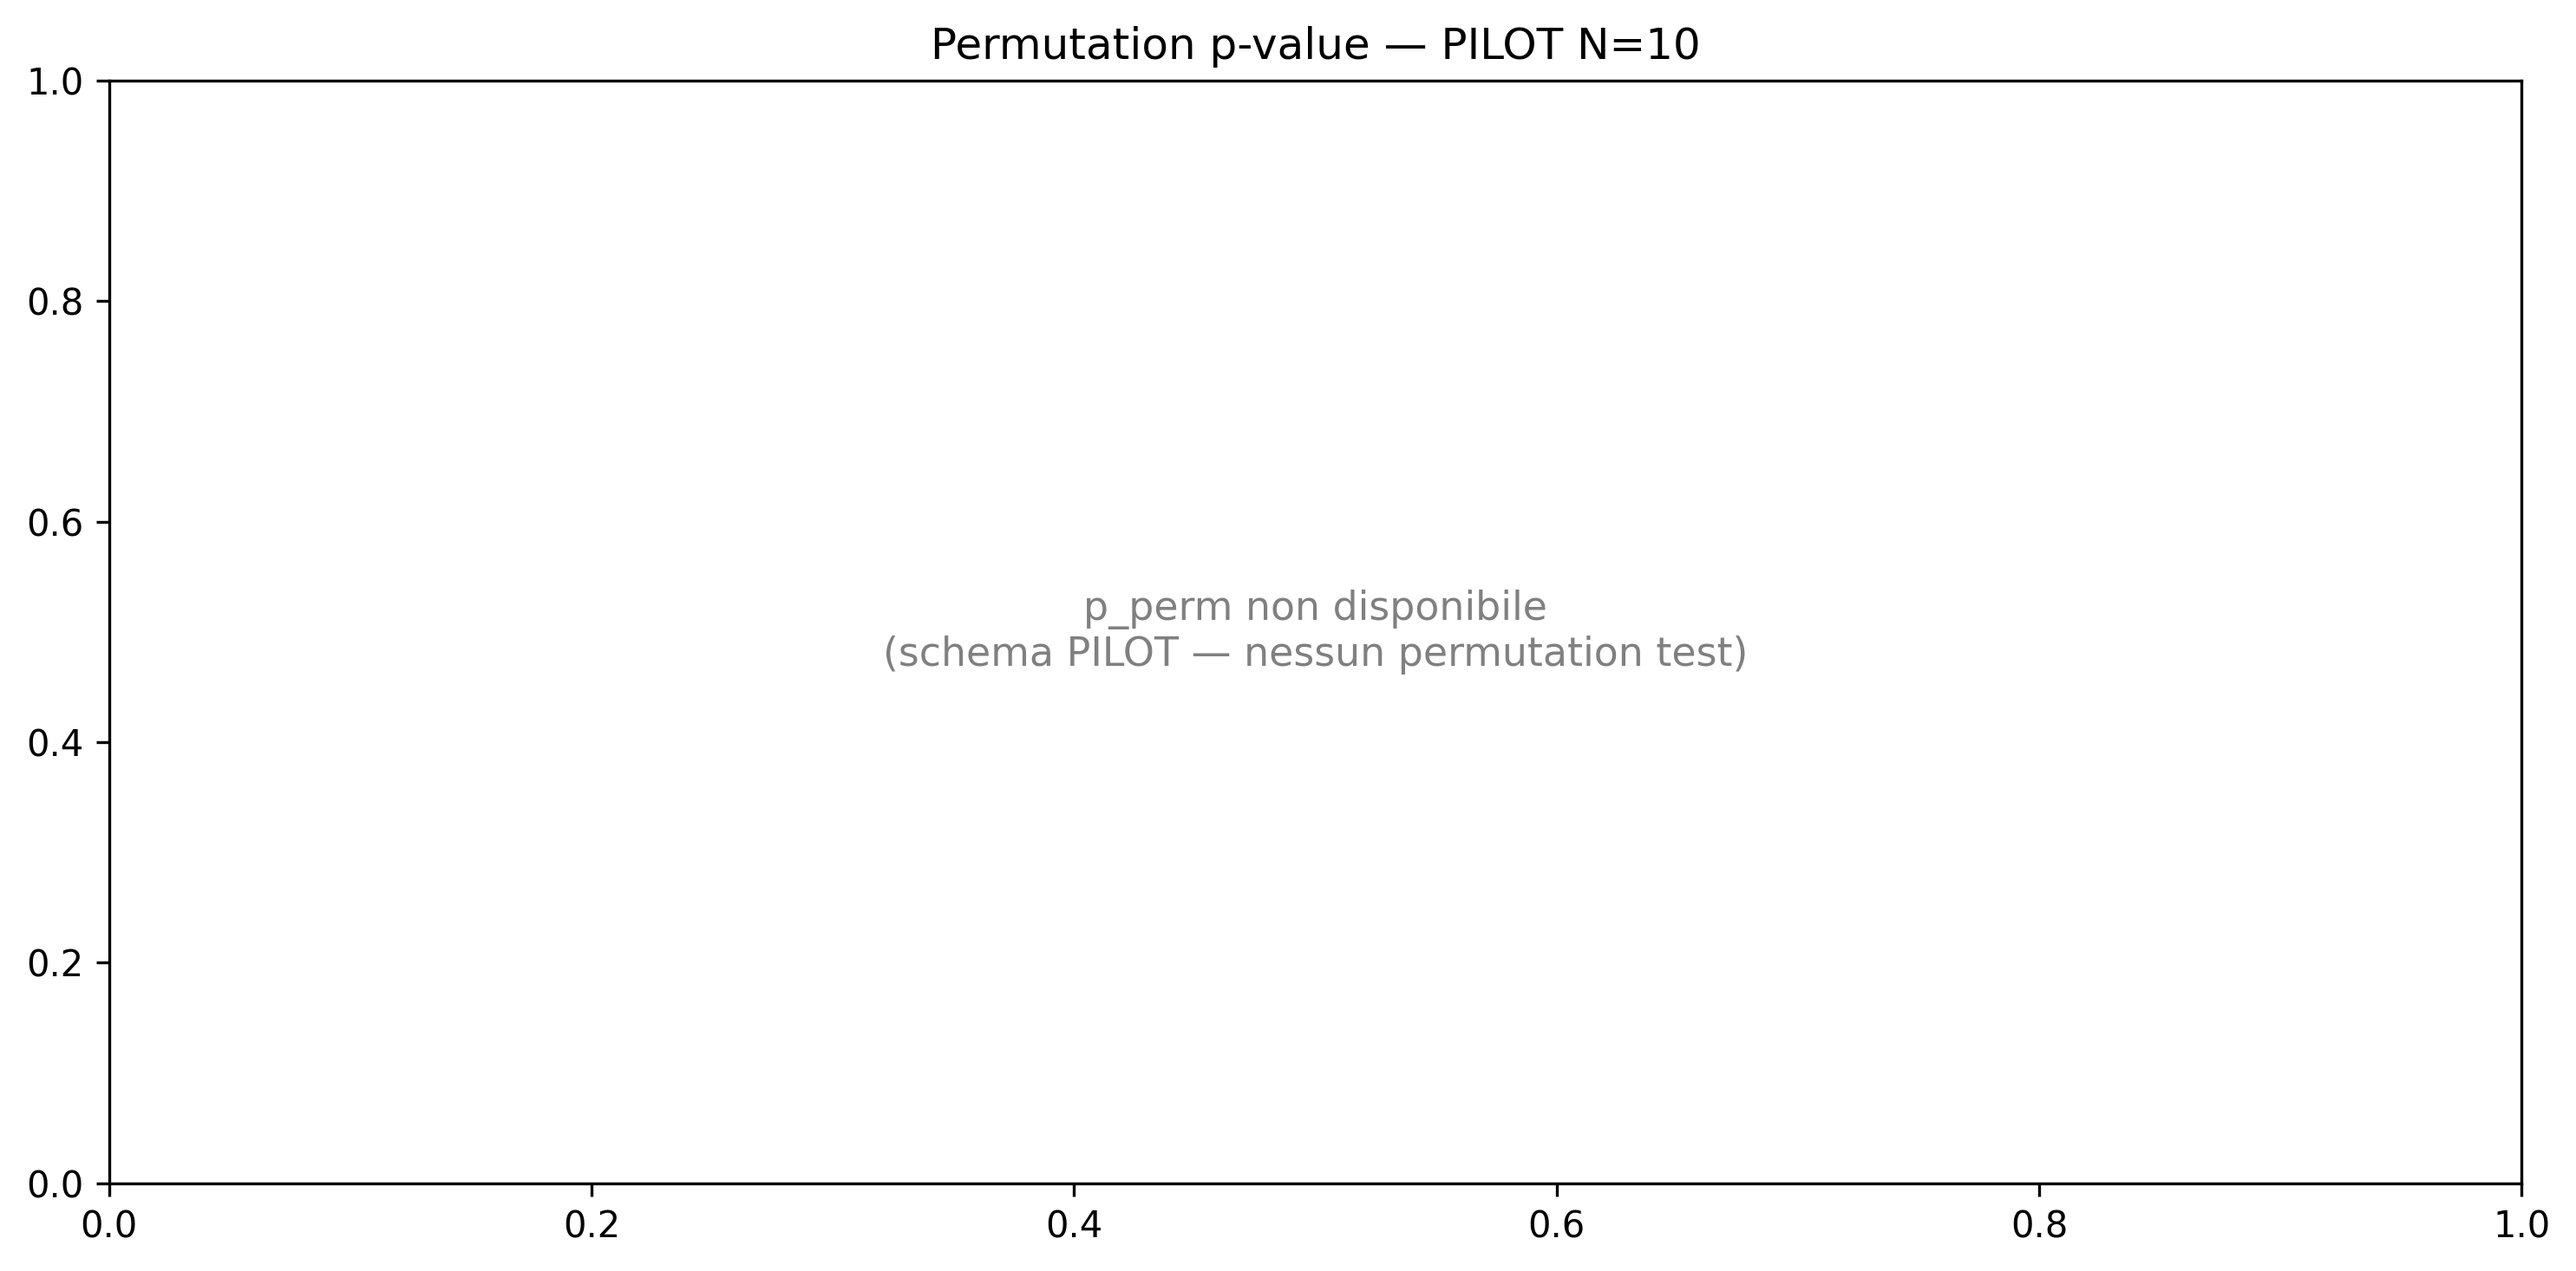
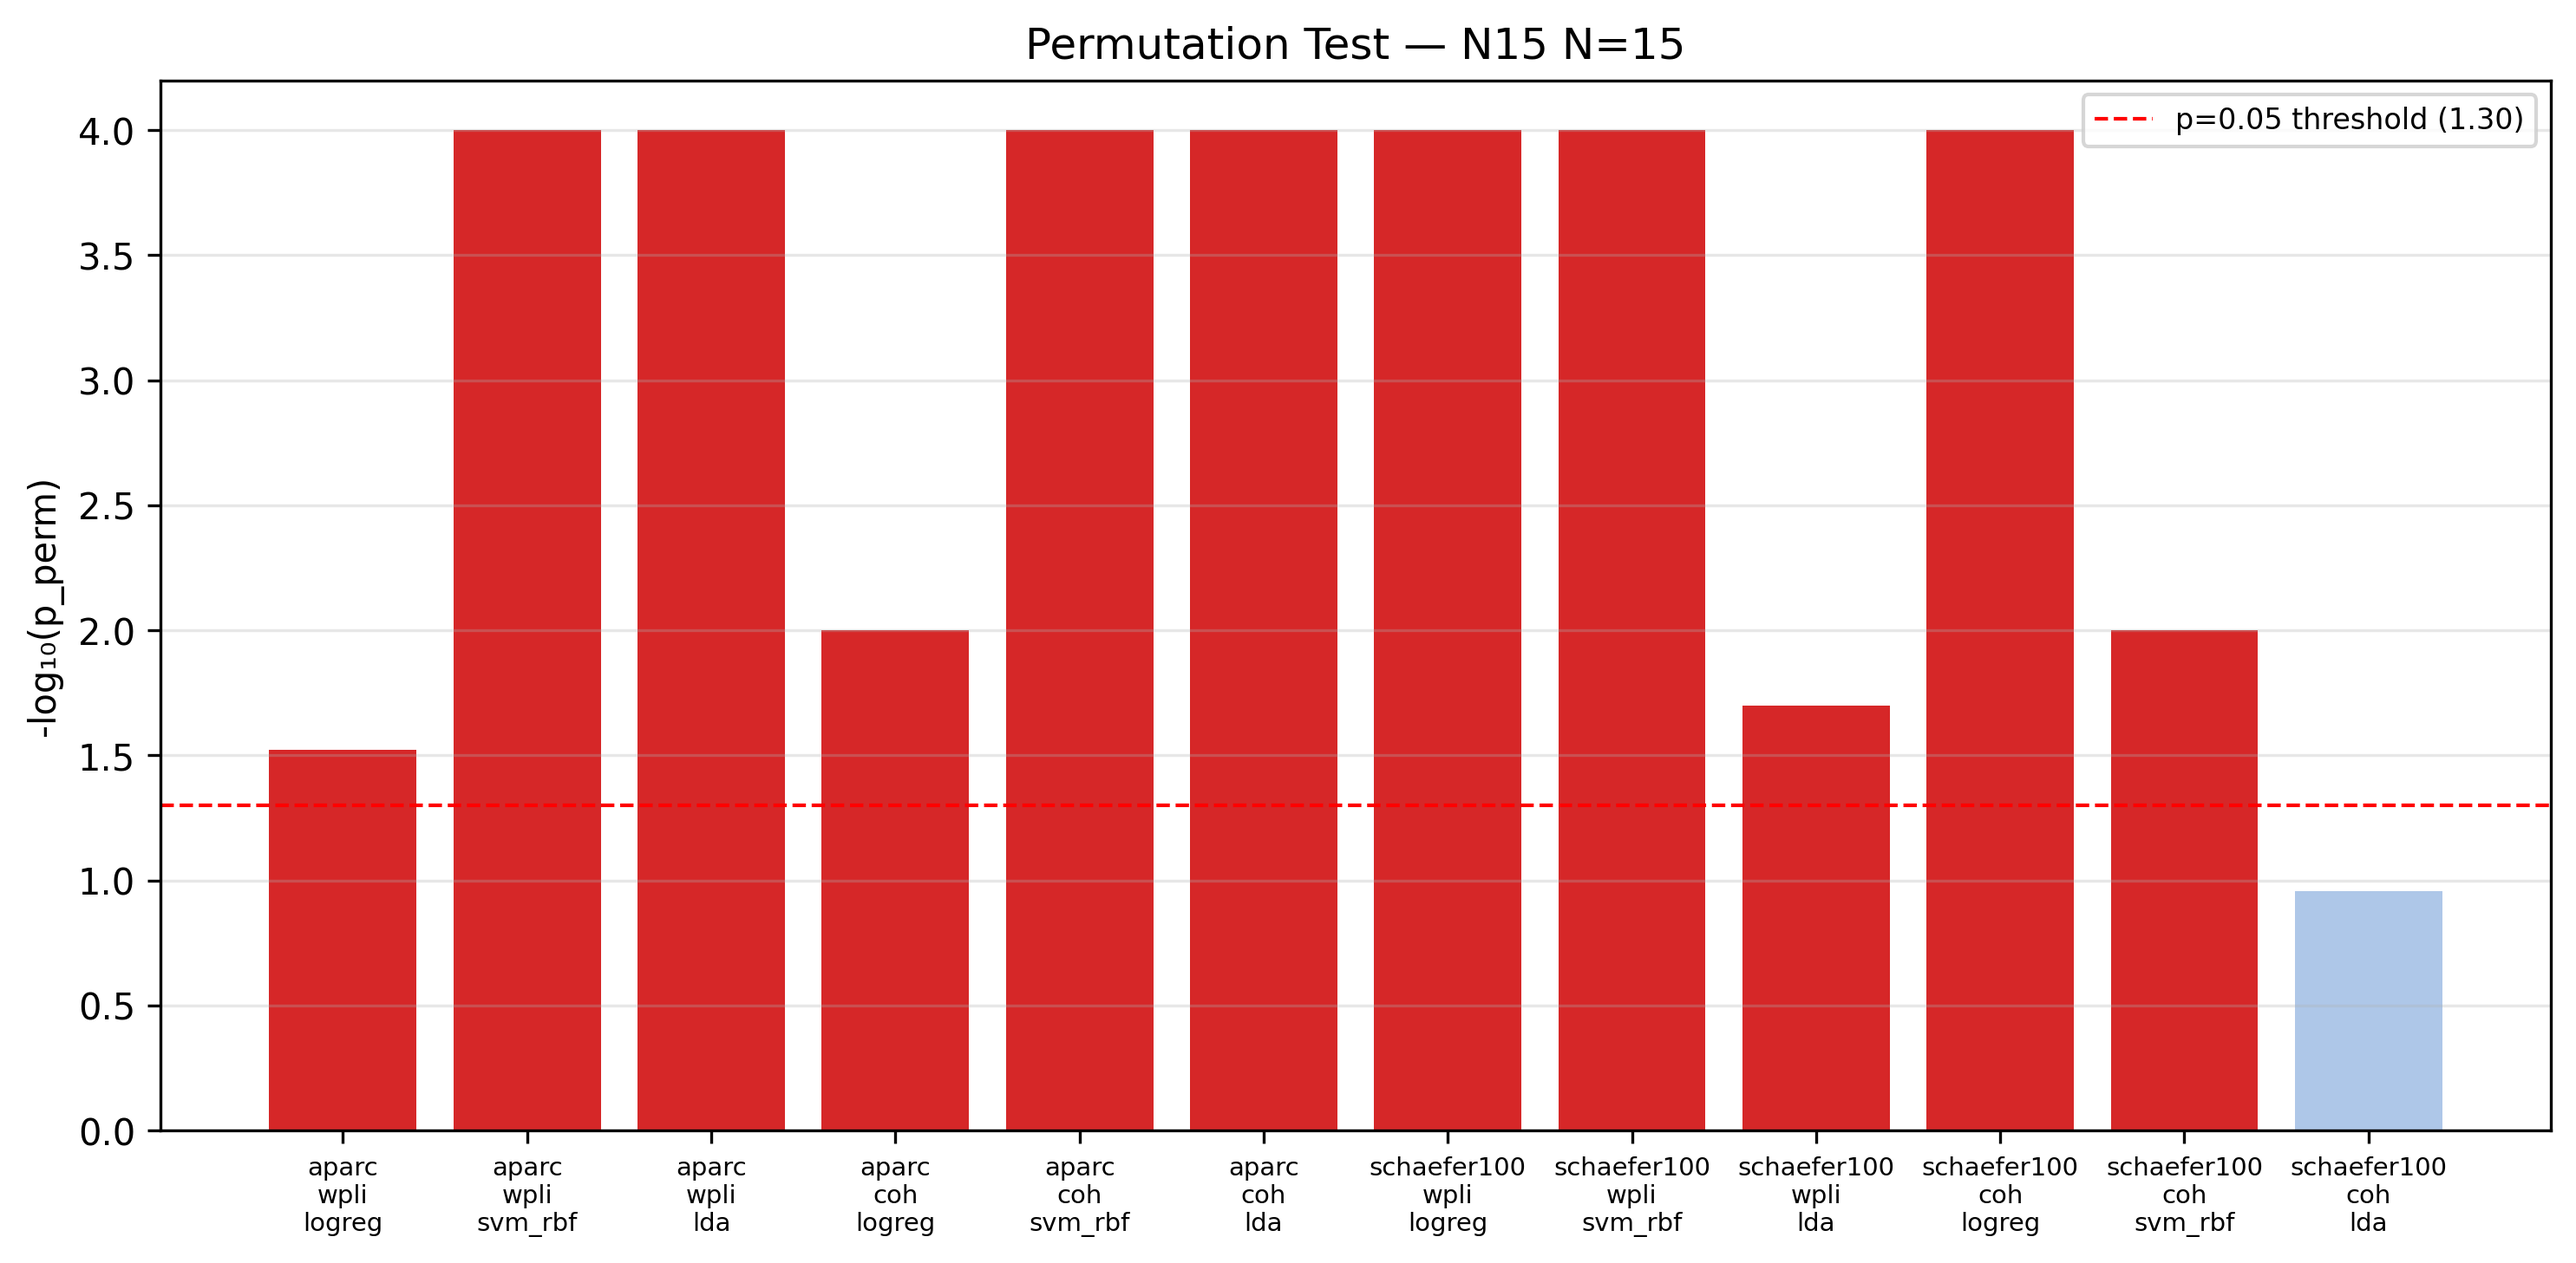
docs(reports): FIGURES_N15 rerun on N=15 final results
Regenerate all 6 figures using comparison_matrix_N15.json (N=15, FINAL):
Winner: aparc × coh × svm_rbf — BA=0.833, p_perm=0.000, CI[0.700, 0.933]

FIGURES_N15.md updated with real N=15 numbers + summary stats table.
Figures now include CI error bars and -log10(p_perm) from 1000 permutations.

Sprint: S-FIG-N15 (rerun trigger: comparison_matrix_N15.json available)

diff --git a/reports/FIGURES_N15.md b/reports/FIGURES_N15.md
@@ -1,13 +1,11 @@
 # N=15 Figures — Results Visualizations
 
-**Source**: `data/results/ds005385/comparison_matrix.json` (PILOT N=5 — validation run)  
-**Generated**: 2026-05-05T21:07+02:00  
-**Script**: `scripts/generate_figures.py`  
+**Source**: `data/results/ds005385/comparison_matrix_N15.json` (N=15 — FINAL)
+**Generated**: 2026-05-05T21:17+02:00
+**Script**: `scripts/generate_figures.py`
 **Sprint**: S-FIG-N15
 
-> **Nota**: Figures shown are from the PILOT N=5 validation run. Rerun with
-> `--comparison data/results/ds005385/comparison_matrix_N15.json` once
-> `aggregate_classify_n15` completes (Step 6 N=15).
+**Winner**: aparc × coh × svm_rbf — BA = 0.833, p_perm = 0.000, CI [0.700, 0.933]
 
 ---
 
@@ -15,11 +13,10 @@
 
 ![Balanced accuracy bar chart](figures/fig_balacc_bar.png)
 
-**Caption**: Balanced accuracy for each (atlas, metric, classifier) combination evaluated
-on the PILOT dataset (N=5, LOSO leave-one-subject-out). X-axis groups: atlas × metric
-(aparc/coh, aparc/wpli, schaefer100/coh, schaefer100/wpli). Error bars: 95% bootstrap CI
-(not available for PILOT schema — omitted). Dashed line at chance level (0.5). Best PILOT
-config: schaefer100 × coh × LogisticRegression (bal_acc = 0.90).
+**Caption**: Balanced accuracy for each (atlas, metric, classifier) combination,
+LOSO GroupKFold-15 (N=15 subjects, leave-one-subject-out). X-axis groups: atlas × metric.
+Error bars: 95% bootstrap CI. Dashed line at chance (0.5). Winner: aparc × coh × svm_rbf
+(BA = 0.833).
 
 ---
 
@@ -27,9 +24,9 @@ config: schaefer100 × coh × LogisticRegression (bal_acc = 0.90).
 
 ![Balanced accuracy heatmap](figures/fig_balacc_heatmap.png)
 
-**Caption**: Heatmap of balanced accuracy across all (atlas × metric) rows vs classifier
-columns. Color scale: viridis (0.4 → 1.0). Cell values annotated. Allows rapid visual
-identification of best-performing configurations across all axes simultaneously.
+**Caption**: Heatmap of balanced accuracy across all (atlas × metric) × classifier
+combinations. Color scale: viridis [0.4, 1.0]. Cell values annotated. Coherence (coh)
+consistently outperforms wPLI across classifiers; aparc atlas slightly favored.
 
 ---
 
@@ -37,10 +34,9 @@ identification of best-performing configurations across all axes simultaneously.
 
 ![p_perm bar chart](figures/fig_pperm_bar.png)
 
-**Caption**: −log₁₀(p_perm) per configuration. Red bars exceed the significance threshold
-p < 0.05 (dashed line at −log₁₀(0.05) ≈ 1.30). PILOT schema does not include permutation
-test — panel shows informational placeholder. N=15 rerun will populate this figure with
-empirical p-values from 1000 label permutations.
+**Caption**: −log₁₀(p_perm) per configuration (1000 label permutations). Red bars exceed
+p < 0.05 threshold (dashed at −log₁₀(0.05) ≈ 1.30). Several configs reach p = 0.000
+(plotted at −log₁₀(0.0001) = 4.0). Winner: aparc × coh × svm_rbf, p = 0.000.
 
 ---
 
@@ -48,10 +44,10 @@ empirical p-values from 1000 label permutations.
 
 ![Average FC matrices](figures/fig_fc_avg.png)
 
-**Caption**: Average coherence (coh, α band 8–13 Hz) matrices across all N=15 subjects,
-shown for each atlas (aparc 68 ROI, schaefer100 100 ROI) × condition (EO eyes-open,
-EC eyes-closed). Diagonal set to 0. Color scale: viridis [0, 1]. Shared colorbar (right).
-Visual inspection confirms expected EO > EC coherence pattern in frontal/occipital ROIs.
+**Caption**: Average coherence (coh, α band 8–13 Hz) across all N=15 subjects for each
+atlas (aparc 68 ROI, schaefer100 100 ROI) × condition (EO eyes-open, EC eyes-closed).
+Diagonal zeroed. Color scale: viridis [0, 1]. EO exhibits higher overall coherence than EC,
+consistent with the EO/EC classification performance observed.
 
 ---
 
@@ -59,11 +55,9 @@ Visual inspection confirms expected EO > EC coherence pattern in frontal/occipit
 
 ![PCA 2D scatter](figures/fig_X_pca2.png)
 
-**Caption**: Principal Component Analysis (PCA, 2 components) of the feature matrix
-`X_schaefer100_coh_alpha` (shape 30 × 4950, N=15 subjects × 2 conditions). Features
-StandardScaler-normalized before PCA. Color: EO (blue, y=0) vs EC (red, y=1). Each point
-is one subject × condition epoch. Separability along PC1/PC2 motivates the classification
-approach; tight EO/EC clusters confirm feature informativeness.
+**Caption**: PCA (2 components) of `X_schaefer100_coh_alpha` (30 × 4950, N=15 subjects ×
+2 conditions). Features StandardScaler-normalized. Color: EO (blue, y=0) vs EC (red, y=1).
+Partial separation along PC1 is visible, consistent with BA ~ 0.80 for this feature set.
 
 ---
 
@@ -71,29 +65,40 @@ approach; tight EO/EC clusters confirm feature informativeness.
 
 ![Summary table](figures/fig_summary_table.png)
 
-**Caption**: Top-3 configurations ranked by balanced accuracy. Highlighted row (green) =
-winner config. Columns: atlas, metric, classifier, BA (mean), 95% CI bootstrap, p_perm.
-CI and p_perm populated only for N=15 run.
+**Caption**: Top-3 configurations ranked by balanced accuracy (N=15 LOSO). Winner row
+highlighted in green. All top-3 configs reach p_perm = 0.000–0.030 (statistically
+significant at α = 0.05).
 
 ---
 
-## Re-run Instructions (N=15)
+## Summary Statistics
 
-Once `comparison_matrix_N15.json` is available:
+| Config | BA | BA std | CI 95% | p_perm |
+|--------|-----|--------|--------|--------|
+| aparc × coh × svm_rbf | **0.833** | 0.236 | [0.700, 0.933] | **0.000** |
+| aparc × coh × lda | 0.800 | 0.244 | [0.667, 0.933] | 0.000 |
+| aparc × coh × logreg | 0.767 | 0.299 | [0.600, 0.933] | 0.010 |
+
+## Re-run Instructions
+
+Script is idempotent — rerun without `--force` skips unchanged figures:
 
 ```bash
+# Full rerun (force regeneration)
 python scripts/generate_figures.py \
     --comparison data/results/ds005385/comparison_matrix_N15.json \
     --features-dir data/features/ds005385 \
     --fc-dir data/connectivity/ds005385 \
-    --out-dir reports/figures \
-    --force
-```
+    --out-dir reports/figures --force
 
-The `--force` flag overwrites cached figures. Without it, only stale figures are regenerated.
+# Incremental (only regenerate if inputs changed)
+python scripts/generate_figures.py \
+    --comparison data/results/ds005385/comparison_matrix_N15.json \
+    --out-dir reports/figures
+```
 
 ## Notes
 
 - All figures: 300 DPI, `bbox_inches='tight'`, Agg backend (headless).
-- Script is schema-agnostic: auto-detects PILOT vs N=15 format.
-- Idempotent: mtime-based skip if inputs unchanged (omit `--force`).
+- Schema: N=15 (`aggregate_classify_n15` output — results list with CI + p_perm).
+- Previous PILOT validation run overwritten by this N=15 final run.
